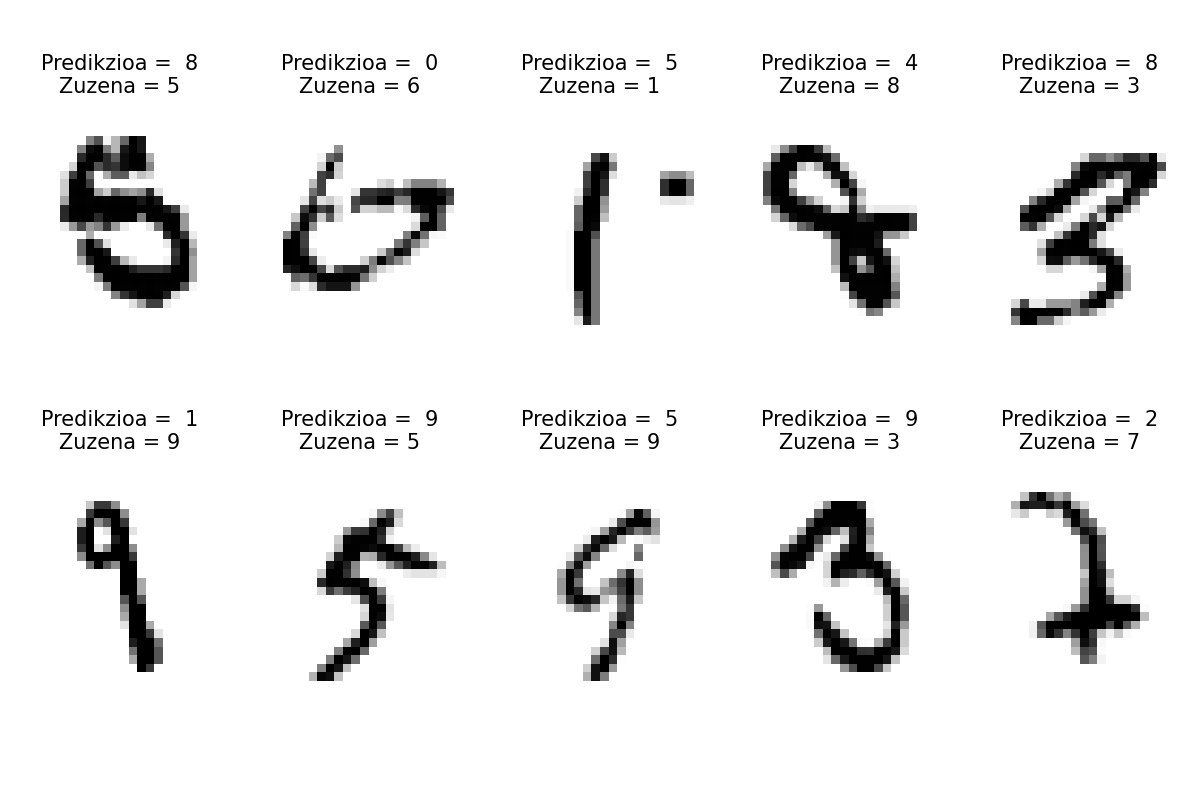
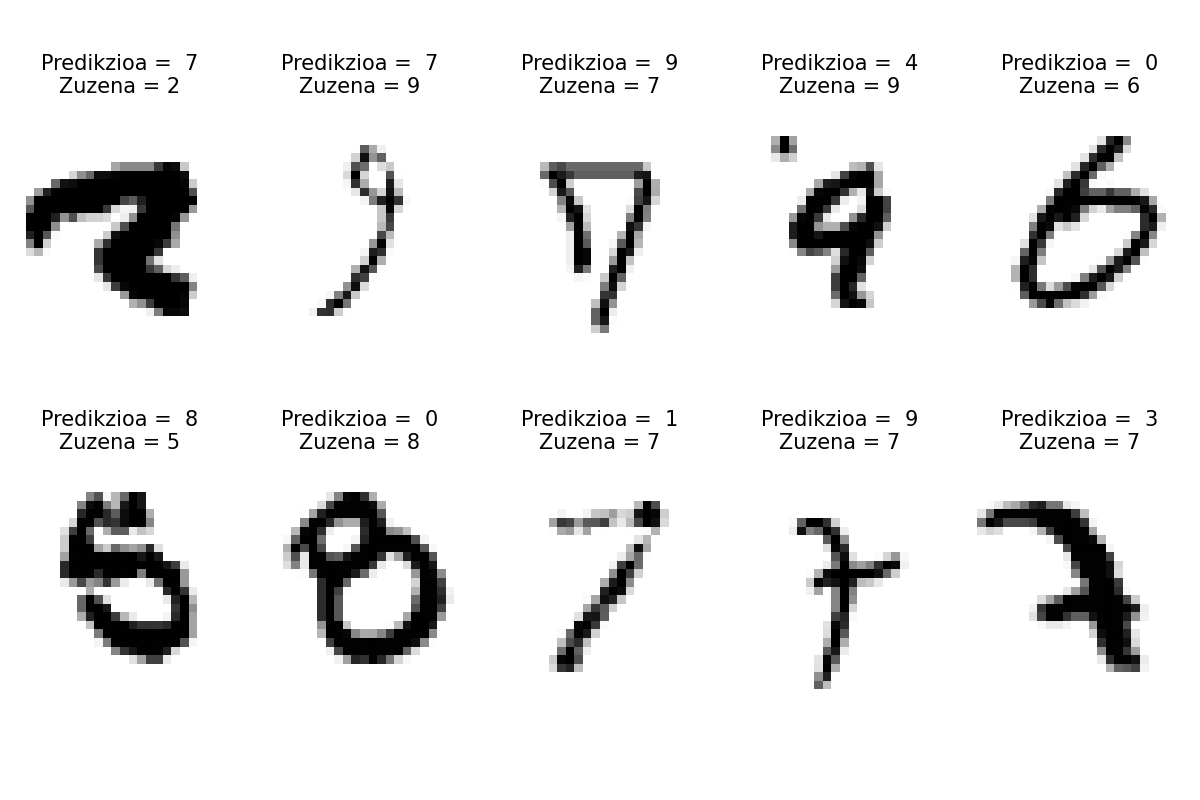
confusion matrix egin

diff --git a/Modelo_hoberena_sortzen/Modeloen_informazioa_adierazi.py b/Modelo_hoberena_sortzen/Modeloen_informazioa_adierazi.py
@@ -13,6 +13,7 @@ from SGD_soft_SVM_Kernels import Nire_SGD_kernelekin
 import time
 import pickle
 import random
+from sklearn.metrics import confusion_matrix
 
 # # ----------------------------------------------------------------------------
 # # -------------------------DATU BASEA INPORTATU-------------------------------
@@ -34,46 +35,46 @@ X_test = X_test / 255
 
 
 
-# # # ----------------------------------------------------------------------------
-# # # --------------------NIRE MODELOA KERNEL GAUSSIARRA--------------------------
-# # # ----------------------------------------------------------------------------
+# # ----------------------------------------------------------------------------
+# # --------------------NIRE MODELOA KERNEL GAUSSIARRA--------------------------
+# # ----------------------------------------------------------------------------
 
-# # # Modeloa inportatu
-# Nire_gauss = pickle.load(open(os.path.join(bide_orokorra,"Entrenatutako_modeloak","Nire_modelo_hoberena_gauss.pkl"),"rb"))
-# Nire_gauss_info = pickle.load(open(os.path.join(bide_orokorra,"Entrenatutako_modeloak","Nire_modelo_hoberena_gauss_info.pkl"),"rb"))
+# # Modeloa inportatu
+Nire_gauss = pickle.load(open(os.path.join(bide_orokorra,"Entrenatutako_modeloak","Nire_modelo_hoberena_gauss.pkl"),"rb"))
+Nire_gauss_info = pickle.load(open(os.path.join(bide_orokorra,"Entrenatutako_modeloak","Nire_modelo_hoberena_gauss_info.pkl"),"rb"))
 
-# # # Informazioa erakutsi:
-# print("Nire modeloa, kernel gausiarra:")
-# print(f"Behar izan duen denbora: {Nire_gauss_info[0]}")
-# print(f"Lortu duen asmatze-proportzioa: {Nire_gauss_info[1]}")
-# print()
+# # Informazioa erakutsi:
+print("Nire modeloa, kernel gausiarra:")
+print(f"Behar izan duen denbora: {Nire_gauss_info[0]}")
+print(f"Lortu duen asmatze-proportzioa: {Nire_gauss_info[1]}")
+print()
 
-# # # Conffusion Matrix egin:
+# # Conffusion Matrix egin:
 
-# # Nire_gauss_test_predikzioak = Nire_gauss.predict_anitzkoitza(X_test.values())
+# Nire_gauss_test_predikzioak = Nire_gauss.predict_anitzkoitza(X_test.values())
 
-# # # Gaizki egindako predikzioak bisualizatu:
-# random.seed(123)
-# fig, axs = plt.subplots(2,5, figsize = (12,8))
-# k = random.randint(0, len(Y_test)-1)
-# for i in range(2):
-#     for j in range(5):
-#         predikzioa =  Nire_gauss.predict(X_test.iloc[k,:])
-#         zuzena = Y_test.iloc[k]
-#         while predikzioa == zuzena:
-#             k = random.randint(0, len(Y_test)-1)
-#             predikzioa =  Nire_gauss.predict(X_test.iloc[k,:])
-#             zuzena = Y_test.iloc[k]
-#         adib = np.array(X_test.iloc[k, :])
-#         adib = np.reshape(adib, (28,28))
-#         axs[i,j].imshow(adib, cmap = "gray_r")
-#         axs[i,j].axis("off")
-#         axs[i,j].text(0.5,1.2,f"Predikzioa =  {str(predikzioa)}\nZuzena = {str(zuzena)}", fontsize = 15, horizontalalignment = "center", verticalalignment = "top", transform = axs[i,j].transAxes)
-#         k += 1
+# # Gaizki egindako predikzioak bisualizatu:
+random.seed(123)
+fig, axs = plt.subplots(2,5, figsize = (12,8))
+k = random.randint(0, len(Y_test)-1)
+for i in range(2):
+    for j in range(5):
+        predikzioa =  Nire_gauss.predict(X_test.iloc[k,:])
+        zuzena = Y_test.iloc[k]
+        while predikzioa == zuzena:
+            k = random.randint(0, len(Y_test)-1)
+            predikzioa =  Nire_gauss.predict(X_test.iloc[k,:])
+            zuzena = Y_test.iloc[k]
+        adib = np.array(X_test.iloc[k, :])
+        adib = np.reshape(adib, (28,28))
+        axs[i,j].imshow(adib, cmap = "gray_r")
+        axs[i,j].axis("off")
+        axs[i,j].text(0.5,1.2,f"Predikzioa =  {str(predikzioa)}\nZuzena = {str(zuzena)}", fontsize = 15, horizontalalignment = "center", verticalalignment = "top", transform = axs[i,j].transAxes)
+        k += 1
 
-# plt.tight_layout(pad = 0)
-# # plt.show()
-# plt.savefig(os.path.join(oraingo_bidea, "Irudiak", "Nire_gauss_gaizki_klasifikatuak.png"))
+plt.tight_layout(pad = 0)
+# plt.show()
+plt.savefig(os.path.join(oraingo_bidea, "Irudiak", "Nire_gauss_gaizki_klasifikatuak.png"))
 
 
 
@@ -135,37 +136,61 @@ print(f"Behar izan duen denbora: {Scikit_gauss_info[0]}")
 print(f"Lortu duen asmatze-proportzioa: {Scikit_gauss_info[1]}")
 print()
 
-# Conffusion Matrix egin:
+# # Conffusion Matrix egin:
 
-# # Gaizki egindako predikzioak bisualizatu:
-fig, axs = plt.subplots(2,5, figsize = (12,8))
-k = random.randint(0, len(Y_test)-1)
-for i in range(2):
-    for j in range(5):
-        predikzioa =  Scikit_gauss.predict(np.array(X_test.iloc[k,:].tolist()).reshape(1,-1))[0]
-        zuzena = Y_test.iloc[k]
-        while predikzioa == zuzena:
-            k = random.randint(0, len(Y_test)-1)
-            predikzioa =  Scikit_gauss.predict(np.array(X_test.iloc[k,:].tolist()).reshape(1,-1))[0]
-            zuzena = Y_test.iloc[k]
-        adib = np.array(X_test.iloc[k, :])
-        adib = np.reshape(adib, (28,28))
-        axs[i,j].imshow(adib, cmap = "gray_r")
-        axs[i,j].axis("off")
-        axs[i,j].text(0.5,1.2,f"Predikzioa =  {str(predikzioa)}\nZuzena = {str(zuzena)}", fontsize = 15, horizontalalignment = "center", verticalalignment = "top", transform = axs[i,j].transAxes)
-        k += 1
+# predikzioak_Scikit_gauss = Scikit_gauss.predict(X_test)
+# conf_matrix_Scikit_gauss = confusion_matrix(Y_test, predikzioak_Scikit_gauss, labels= np.unique(Y_test.values))
+# pickle.dump(conf_matrix_Scikit_gauss, open(os.path.join(oraingo_bidea, "Conf_matrix_gordeta", "conf_matrix_Scikit_gauss"),"wb"))
+conf_matrix_Scikit_gauss = pickle.load(open(os.path.join(oraingo_bidea, "Conf_matrix_gordeta", "conf_matrix_Scikit_gauss"),"rb"))
 
-plt.tight_layout(pad = 0)
-# plt.show()
-plt.savefig(os.path.join(oraingo_bidea, "Irudiak", "Scikit_gauss_gaizki_klasifikatuak.png"))
-
-
+matrizea = conf_matrix_Scikit_gauss
+plt.figure(figsize=(8, 7))
+plt.imshow(matrizea, aspect= "equal")
+plt.xticks(np.arange(0, 10, 1), [r'${{{}}}$'.format(j) for j in range(10)], fontsize = 17)
+plt.xlabel("Predikzioa", fontsize = 20)
+plt.yticks(np.arange(0, 10, 1), [r'${{{}}}$'.format(j) for j in range(10)], fontsize = 17)
+plt.ylabel("Benetako balioa", fontsize = 20)
+# plt.title("Modelo desberdinen asmatze proportzioa baliozta-multzoan:\nKernel gaussiarra")
+cbar = plt.colorbar()
+cbar.ax.tick_params(labelsize=10)
+plt.clim(0,1200)
+plt.tight_layout(pad = 0.2)
+for i in range(matrizea.shape[0]):
+    for j in range(matrizea.shape[1]):
+        plt.text(j, i, '{:.0f}'.format(matrizea[i, j]), ha='center', va='center', color='white' if matrizea[i, j] < 500 else "black", fontsize = 15)
+plt.savefig(os.path.join(oraingo_bidea, "Irudiak", "Scikit_gauss_conf_matrix.png"))
 
 
 
-# # ----------------------------------------------------------------------------
-# # --------------------SCIKIT MODELOA KERNEL POLINOMIALA-------------------------
-# # ----------------------------------------------------------------------------
+# # # Gaizki egindako predikzioak bisualizatu:
+# fig, axs = plt.subplots(2,5, figsize = (12,8))
+# k = random.randint(0, len(Y_test)-1)
+# for i in range(2):
+#     for j in range(5):
+#         predikzioa =  Scikit_gauss.predict(np.array(X_test.iloc[k,:].tolist()).reshape(1,-1))[0]
+#         zuzena = Y_test.iloc[k]
+#         while predikzioa == zuzena:
+#             k = random.randint(0, len(Y_test)-1)
+#             predikzioa =  Scikit_gauss.predict(np.array(X_test.iloc[k,:].tolist()).reshape(1,-1))[0]
+#             zuzena = Y_test.iloc[k]
+#         adib = np.array(X_test.iloc[k, :])
+#         adib = np.reshape(adib, (28,28))
+#         axs[i,j].imshow(adib, cmap = "gray_r")
+#         axs[i,j].axis("off")
+#         axs[i,j].text(0.5,1.2,f"Predikzioa =  {str(predikzioa)}\nZuzena = {str(zuzena)}", fontsize = 15, horizontalalignment = "center", verticalalignment = "top", transform = axs[i,j].transAxes)
+#         k += 1
+
+# plt.tight_layout(pad = 0)
+# # plt.show()
+# plt.savefig(os.path.join(oraingo_bidea, "Irudiak", "Scikit_gauss_gaizki_klasifikatuak.png"))
+
+
+
+
+
+# # # ----------------------------------------------------------------------------
+# # # --------------------SCIKIT MODELOA KERNEL POLINOMIALA-------------------------
+# # # ----------------------------------------------------------------------------
 
 # # Modeloa inportatu
 Scikit_poly = pickle.load(open(os.path.join(bide_orokorra,"Entrenatutako_modeloak","Scikit_modelo_hoberena_poly.pkl"),"rb"))
@@ -179,25 +204,50 @@ print(f"Lortu duen asmatze-proportzioa: {Scikit_poly_info[1]}")
 print()
 
 
+# # Conffusion Matrix egin:
 
-# # Gaizki egindako predikzioak bisualizatu:
-fig, axs = plt.subplots(2,5, figsize = (12,8))
-k = random.randint(0, len(Y_test)-1)
-for i in range(2):
-    for j in range(5):
-        predikzioa =  Scikit_poly.predict(np.array(X_test.values[k]).reshape(1,-1))[0]
-        zuzena = Y_test.iloc[k]
-        while predikzioa == zuzena:
-            k = random.randint(0, len(Y_test)-1)
-            predikzioa =  Scikit_poly.predict(np.array(X_test.values[k]).reshape(1,-1))[0]
-            zuzena = Y_test.iloc[k]
-        adib = np.array(X_test.iloc[k, :])
-        adib = np.reshape(adib, (28,28))
-        axs[i,j].imshow(adib, cmap = "gray_r")
-        axs[i,j].axis("off")
-        axs[i,j].text(0.5,1.2,f"Predikzioa =  {str(predikzioa)}\nZuzena = {str(zuzena)}", fontsize = 15, horizontalalignment = "center", verticalalignment = "top", transform = axs[i,j].transAxes)
-        k += 1
+# predikzioak_Scikit_poly = Scikit_poly.predict(X_test)
+# conf_matrix_Scikit_poly = confusion_matrix(Y_test, predikzioak_Scikit_poly, labels= np.unique(Y_test.values))
+# pickle.dump(conf_matrix_Scikit_poly, open(os.path.join(oraingo_bidea, "Conf_matrix_gordeta", "conf_matrix_Scikit_poly"),"wb"))
+conf_matrix_Scikit_poly = pickle.load(open(os.path.join(oraingo_bidea, "Conf_matrix_gordeta", "conf_matrix_Scikit_poly"),"rb"))
 
-plt.tight_layout(pad = 0)
-# plt.show()
-plt.savefig(os.path.join(oraingo_bidea, "Irudiak", "Scikit_poly_gaizki_klasifikatuak.png"))
+matrizea = conf_matrix_Scikit_poly
+plt.figure(figsize=(8, 7))
+plt.imshow(matrizea, aspect= "equal")
+plt.xticks(np.arange(0, 10, 1), [r'${{{}}}$'.format(j) for j in range(10)], fontsize = 17)
+plt.xlabel("Predikzioa", fontsize = 20)
+plt.yticks(np.arange(0, 10, 1), [r'${{{}}}$'.format(j) for j in range(10)], fontsize = 17)
+plt.ylabel("Benetako balioa", fontsize = 20)
+# plt.title("Modelo desberdinen asmatze proportzioa baliozta-multzoan:\nKernel gaussiarra")
+cbar = plt.colorbar()
+cbar.ax.tick_params(labelsize=10)
+plt.clim(0,1200)
+plt.tight_layout(pad = 0.2)
+for i in range(matrizea.shape[0]):
+    for j in range(matrizea.shape[1]):
+        plt.text(j, i, '{:.0f}'.format(matrizea[i, j]), ha='center', va='center', color='white' if matrizea[i, j] < 500 else "black", fontsize = 15)
+plt.savefig(os.path.join(oraingo_bidea, "Irudiak", "Scikit_poly_conf_matrix.png"))
+
+
+
+# # # Gaizki egindako predikzioak bisualizatu:
+# fig, axs = plt.subplots(2,5, figsize = (12,8))
+# k = random.randint(0, len(Y_test)-1)
+# for i in range(2):
+#     for j in range(5):
+#         predikzioa =  Scikit_poly.predict(np.array(X_test.values[k]).reshape(1,-1))[0]
+#         zuzena = Y_test.iloc[k]
+#         while predikzioa == zuzena:
+#             k = random.randint(0, len(Y_test)-1)
+#             predikzioa =  Scikit_poly.predict(np.array(X_test.values[k]).reshape(1,-1))[0]
+#             zuzena = Y_test.iloc[k]
+#         adib = np.array(X_test.iloc[k, :])
+#         adib = np.reshape(adib, (28,28))
+#         axs[i,j].imshow(adib, cmap = "gray_r")
+#         axs[i,j].axis("off")
+#         axs[i,j].text(0.5,1.2,f"Predikzioa =  {str(predikzioa)}\nZuzena = {str(zuzena)}", fontsize = 15, horizontalalignment = "center", verticalalignment = "top", transform = axs[i,j].transAxes)
+#         k += 1
+
+# plt.tight_layout(pad = 0)
+# # plt.show()
+# plt.savefig(os.path.join(oraingo_bidea, "Irudiak", "Scikit_poly_gaizki_klasifikatuak.png"))
